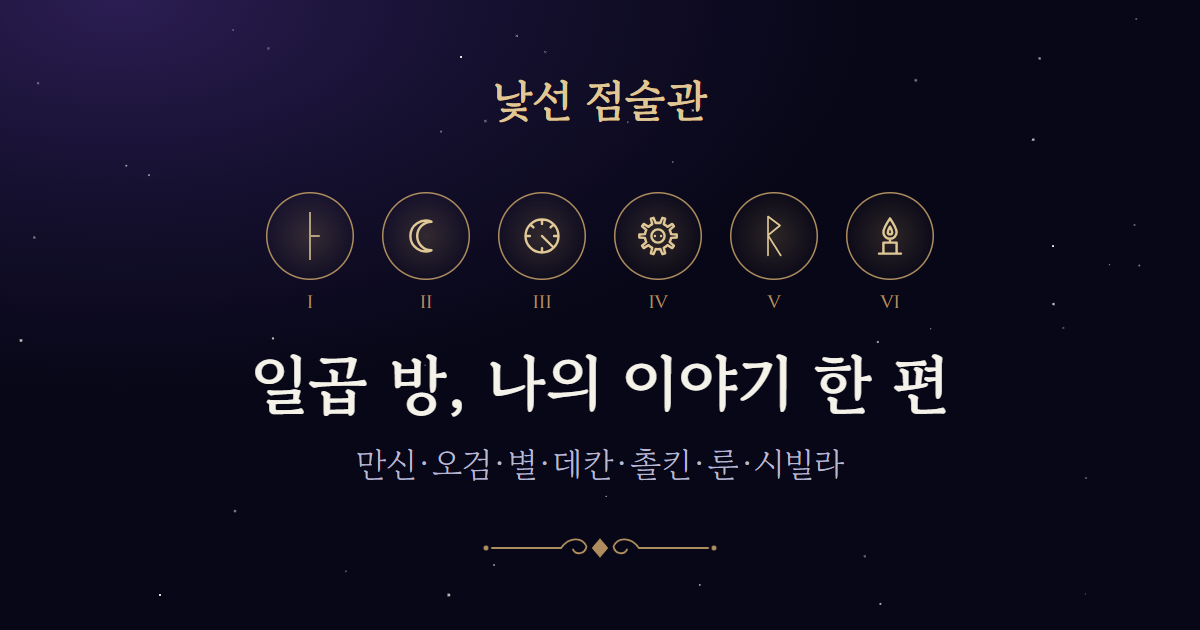
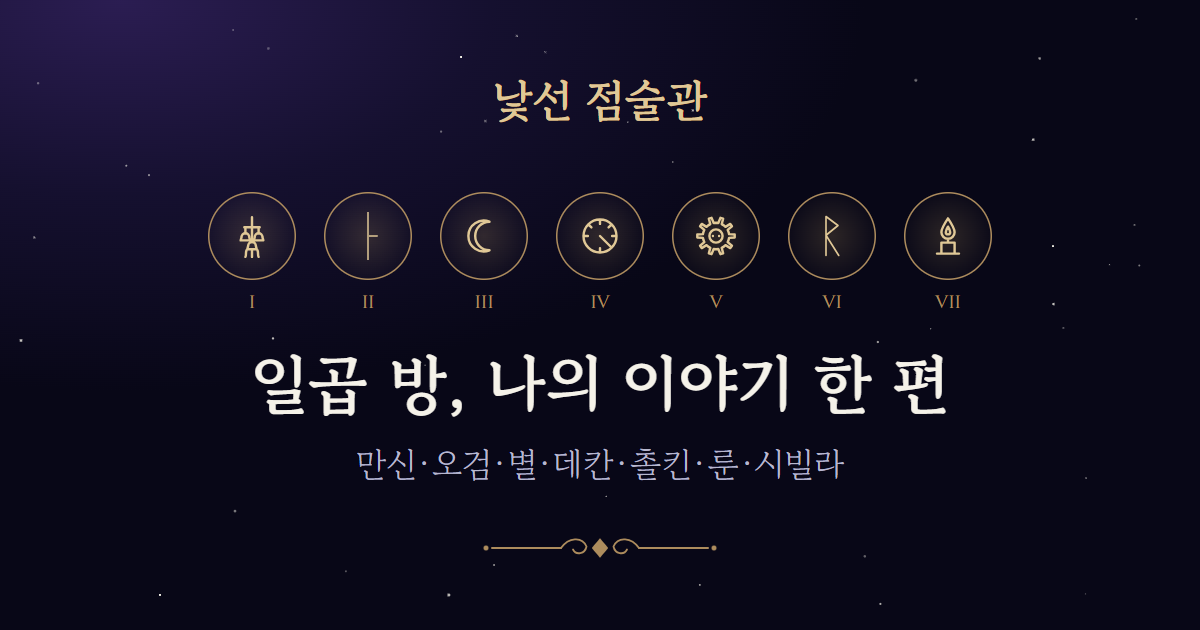
14단계 QA 1차 수정: ads.js를 배포 폴더에서 빼고 build-dist 검사 추가, og-image 일곱 문 상징(Ⅰ 만신)으로 다시 만듦·CREDITS 갱신, 권장 반영(이어가기 칸 SOG2 예시, 지우기 대화상자에 시각·성별, meta 키워드 사주·만신)

Changed region(s): [[0.185, 0.3016, 0.8017, 0.4825]]

diff --git a/tools/build-dist.js b/tools/build-dist.js
@@ -74,7 +74,9 @@ function copyDir(src, dest, exclude = new Set()) {
 }
 
 fs.rmSync(DIST, { recursive: true, force: true });
-copyDir(path.join(ROOT, "common"), path.join(PUBLIC, "common"));
+// (14-2·14-7의 7) 광고는 걷어 냈다: common/ads.js는 저장소에 남기되 배포 폴더에는 넣지 않는다
+const COMMON_EXCLUDE = new Set(["ads.js"]);
+copyDir(path.join(ROOT, "common"), path.join(PUBLIC, "common"), COMMON_EXCLUDE);
 for (const slug of PRODUCTS) copyDir(path.join(ROOT, "products", slug), path.join(PUBLIC, "products", slug), PRODUCT_EXCLUDE);
 // 제품 index.html 복사본: og:image 절대 경로, og:url·canonical 추가 (site.url이 있을 때만)
 for (const slug of PRODUCTS) {
@@ -114,6 +116,7 @@ const publicTexts = [];
       if (/(^|\/)legal\/refund\.html$/.test(rel)) fails.push(`① public/${rel} 있음`);
       if (/(^|\/)data-book-(?!free\.js$)[^/]*\.js$/.test(rel) || /(^|\/)book-[a-z]+\.js$/.test(rel)) fails.push(`① 옛 책 파일·유료 파일 public/${rel}`);
       if (/__dev/.test(rel)) fails.push(`① public/${rel}`);
+      if (/(^|\/)ads\.js$/.test(rel)) fails.push(`① 광고 부품 public/${rel} (14-7의 7)`);
       if (/\.(js|html|css|json|txt|md|svg|xml)$/.test(e.name)) publicTexts.push(fs.readFileSync(p, "utf8"));
     }
   }
@@ -182,4 +185,4 @@ for (const slug of PRODUCTS) {
 if (fails.length) {
   console.error("  실패: 배포 점검 — " + fails.slice(0, 15).join(" | "));
   process.exitCode = 1;
-} else console.log("  배포 점검 통과 (pay.mode off · api/·_paid·__dev·옛 책 파일 없음 · 유료 문장 지문 0건 · 첫 화면 책 파일 0) — 공개 폴더: dist/public, 함수: netlify/functions/book.js");
+} else console.log("  배포 점검 통과 (pay.mode off · api/·_paid·__dev·옛 책 파일·ads.js 없음 · 유료 문장 지문 0건 · 첫 화면 책 파일 0) — 공개 폴더: dist/public, 함수: netlify/functions/book.js");

diff --git a/tools/strange-oracle/make-og.js b/tools/strange-oracle/make-og.js
@@ -37,12 +37,12 @@ const DRAW = `(async () => {
     stars += '<circle cx="' + x.toFixed(1) + '" cy="' + y.toFixed(1) + '" r="' + r.toFixed(2) + '" fill="#f5f2e9" opacity="' + o.toFixed(2) + '"/>';
     n++;
   }
-  // 여섯 문 상징 (Ⅰ 오검 · Ⅱ 별 · Ⅲ 데칸 · Ⅳ 촐킨 · Ⅴ 룬 · Ⅵ 시빌라): 원 88px, 간격 28px, 중심 y 236
-  const SYM = [["ogham-beith", 26, 52], ["icon-star", 44, 44], ["icon-decan", 44, 44], ["icon-tzolkin", 44, 44], ["rune-raidho", 30, 45], ["icon-sibyl", 44, 44]];
-  const ROMAN = ["I", "II", "III", "IV", "V", "VI"];
+  // (14단계) 일곱 문 상징 (Ⅰ 만신 · Ⅱ 오검 · Ⅲ 별 · Ⅳ 데칸 · Ⅴ 촐킨 · Ⅵ 룬 · Ⅶ 시빌라): 원 88px, 간격 28px, 중심 y 236, 가운데 정렬
+  const SYM = [["icon-saju", 44, 44], ["ogham-beith", 26, 52], ["icon-star", 44, 44], ["icon-decan", 44, 44], ["icon-tzolkin", 44, 44], ["rune-raidho", 30, 45], ["icon-sibyl", 44, 44]];
+  const ROMAN = ["I", "II", "III", "IV", "V", "VI", "VII"];
   let doors = "";
   SYM.forEach(([id, w, h], i) => {
-    const cx = 310 + i * 116, cy = 236;
+    const cx = 600 + (i - (SYM.length - 1) / 2) * 116, cy = 236;
     doors += '<circle cx="' + cx + '" cy="' + cy + '" r="43.25" fill="url(#og-glow)" stroke="' + BRONZE + '" stroke-width="1.5"/>'
       + '<use href="#' + id + '" x="' + (cx - w / 2) + '" y="' + (cy - h / 2) + '" width="' + w + '" height="' + h + '" style="color:' + HI + ';fill:none;stroke:' + HI + ';stroke-width:2.2;stroke-linecap:round;stroke-linejoin:round"/>'
       + '<text x="' + cx + '" y="308" text-anchor="middle" font-family="Cinzel, serif" font-weight="500" font-size="18" fill="' + BRONZE + '">' + ROMAN[i] + '</text>';

diff --git a/products/strange-oracle/data.js b/products/strange-oracle/data.js
@@ -138,7 +138,7 @@ window.TEXT = {
   // ── 내 정보 지우기 확인 대화상자
   dialog: {
     title: "내 정보를 지울까요?",   // (최대 16자)
-    text: "이름·생년월일과 지금까지 채운 나의 이야기가 이 탭에서 모두 지워지며, 되돌릴 수 없어요.", // (최대 80자)
+    text: "이름·생년월일·태어난 시각·성별과 지금까지 채운 나의 이야기가 이 탭에서 모두 지워지며, 되돌릴 수 없어요.", // (최대 80자)
     confirm: "모두 지우기",
     cancel: "그대로 두기",
   },
@@ -830,7 +830,7 @@ window.TEXT = {
     enter: {
       link: "이어가기 코드가 있어요",                 // 입구, 마친 방 0개일 때 글자 링크 (최대 16자)
       help: "복사해 둔 코드를 그대로 붙여 넣어 주세요", // (최대 24자)
-      placeholder: "SOG1-XXXX-XXXX-XXX",                     // 코드 모양 예 (최대 20자)
+      placeholder: "SOG2-XXXX-XXXX-XXXX-X",                   // 코드 모양 예 (최대 21자, SOG2 17자 + 하이픈 4)
       go: "불러오기",                                 // (최대 8자)
     },
     errors: { // 각 최대 30자

diff --git a/products/strange-oracle/index.html b/products/strange-oracle/index.html
@@ -3140,7 +3140,7 @@
   <dialog class="dialog" data-js="clear-dialog" aria-labelledby="clear-title">
     <div class="dialog__body">
       <h2 class="dialog__title" id="clear-title" data-t="dialog.title">내 정보를 지울까요?</h2>
-      <p class="dialog__text" data-t="dialog.text">이름·생년월일과 지금까지 채운 나의 이야기가 이 탭에서 모두 지워지며, 되돌릴 수 없어요.</p>
+      <p class="dialog__text" data-t="dialog.text">이름·생년월일·태어난 시각·성별과 지금까지 채운 나의 이야기가 이 탭에서 모두 지워지며, 되돌릴 수 없어요.</p>
       <div class="dialog__actions">
         <button class="btn btn--danger btn--block" type="button" data-js="clear-confirm" data-t="dialog.confirm">모두 지우기</button>
         <button class="btn btn--ghost btn--block" type="button" data-js="clear-cancel" data-t="dialog.cancel">그대로 두기</button>

diff --git a/tools/strange-oracle/sync-text.js b/tools/strange-oracle/sync-text.js
@@ -13,7 +13,7 @@ const M=T.meta||{},O=T.og||{};let meta=0;
 const setAttr=(re,val)=>{if(val==null)return;h=h.replace(re,(m,a,b)=>{meta++;return a+escA(val)+b;});};
 h=h.replace(/<title>[^<]*<\/title>/,()=>{meta++;return `<title>${esc(M.title)}</title>`;});
 setAttr(/(<meta name="description" content=")[^"]*(")/,M.description);
-setAttr(/(<meta property="og:title" content=")[^"]*(")/,O.title||M.title);
+setAttr(/(<meta property="og:title" content=")[^"]*(")/,M.title);
 setAttr(/(<meta property="og:description" content=")[^"]*(")/,O.description||M.description);
 console.log({changed:n,meta,missingKeys:[...new Set(miss)].slice(0,20)});
 fs.writeFileSync(file,h);

diff --git a/reports/qa-strange-oracle.md b/reports/qa-strange-oracle.md
@@ -814,3 +814,167 @@
 
 ### meta.json
 - status "검수통과" 유지(바꾸지 않음).
+
+## 14단계 QA (F7 1차, 2026-10-16)
+
+### 판정: 수정 필요
+- 배포를 막는 항목은 2건이고 둘 다 작다.
+  1. 배포 폴더에 `common/ads.js`가 들어간다(14-7의 7).
+  2. og-image가 옛 순서·여섯 상징 그대로다(14-7의 1 취지, 11장 og-image).
+- 성능(14-7의 12)은 기획서 기준에 못 미치지만 **배포를 막는 결함으로 보지 않는다**(아래 근거). 대신 운영자가 기준 미달을 받아들일지 정해야 한다.
+- 6장·7장·8장은 통과다. 11장은 og-image 내용만 빼고 통과다.
+- meta.json status는 이전 단계 값 "검수통과"를 그대로 두었다. 이번 판정이 "수정 필요"라서 11장 배포 기준은 아직 충족되지 않는다. 판정이 "배포 가능"이 되기 전에는 `release` 병합을 하지 않는다.
+
+### 직접 돌린 시험
+2026-10-16, build-dist를 다시 실행하고 모의 서버 8788(`--mode test`)을 재시작한 뒤 돌렸다.
+
+| 시험 | 결과 |
+|---|---|
+| `node tools/build-dist.js` | exit 0. [초안] 없음. 유료 지문 4,637개(saju 170 포함)를 dist/public 28개 파일에서 찾아 0건(공개 문구와 글자 그대로 같은 9개는 뺌). pay.mode off, api·_paid·__dev 없음 |
+| 단위 `node --test "tools/strange-oracle/*.test.js"` | 63 통과 / 0 실패 |
+| e2e-saju | 41 통과 / 0 실패 |
+| e2e-book | 54 통과 / 0 실패 |
+| e2e-pay (test + off 배포판) | 29 통과 / 0 실패 |
+| e2e-flow reduced | 127 통과 / 0 실패 (책 문장 6,066개 대조) |
+| e2e-flow motion | 128 통과 / 0 실패 |
+| perf.js | 돌리지 않았다. 몇 분 걸리고 회마다 2.4~5.6초로 흔들린다. tests.md 「14단계 · 성능」(2026-10-16) 수치로 판단했다 |
+
+### 결과표 (14-7 수용 기준 1~16, CLAUDE.md 6·7·8·11장)
+| 번호 | 결과 | 근거 | 수정 방법 |
+|---|---|---|---|
+| 14-7의 1 순서·문구 | 통과(화면) | e2e-saju: Ⅰ만 is-next이고, Ⅰ 전에는 Ⅱ에 못 들어간다. dist index.html의 주석 밖 "여섯"은 `guides.saju.greet` "세상의 여섯 문을 더 지날 터이니" 하나뿐이다. 만신 뒤에 방이 여섯이라 맞다 | og-image는 수정 필요 2 |
+| 2 첫 입력 네 칸·고지 | 통과 | e2e-saju: 시작 버튼 아래 끝 624px(360×640 안), 고지가 버튼 위, 내 정보 지우기 뒤 gender 없음 | |
+| 3 만세력 검증 | 통과 | 단위 saju.test.js(일진·절입·경계·시주·대운) 통과. 아래 표본 3명이 손 계산과 일치 | |
+| 4 경우별 표시 | 통과 | e2e-saju: 시각 모름 6글자·합 6, 입춘일 안내, 밝히지 않음은 대운 없음+링크, 00:15 → 전날 일주(丁卯) | |
+| 5 조합 전부 | 통과 | 단위 "S1~S5 분포" 통과, 같은 입력이면 같은 글 | |
+| 6 이어가기 SOG2/SOG1 | 통과 | e2e-saju: legacy·SOG1 복원 뒤 다음 방 Ⅰ, 옛 상태 SOG2 왕복, 순서 어긋난 코드 거부, 해독 칸에 성별·대운 없음 | |
+| 7 광고 흔적 | **수정 필요** | 첫 화면 소스·요청은 0건(e2e-saju). 그러나 **`dist/public/common/ads.js`가 배포 폴더에 있다**(adsbygoogle·googletag 문자열 포함). 기준은 "배포 폴더와 첫 화면 소스에 … ads.js … 0건, common/ads.js 파일은 저장소에 그대로"다 | 수정 필요 1 |
+| 8 결제 | 통과 | e2e-pay 29건: 결제 전 1~8 순서, test 띠, 빈 구매처면 버튼 비활성+한 줄, SDK 0, SO1·SOG·모양 틀림은 요청 0, 7/7 전 구매는 need-room, off는 DOM 0·막다른 곳 0·/api 요청 0 | F6 해석은 아래 |
+| 8 함수 허용 목록 | 통과(코드 검토) | `netlify/functions/book.js`, 아래 검토 | |
+| 9 유료 누출 0 | 통과 | build-dist 지문 검사 + 직접 표본(아래) | |
+| 10 시험 페이지 12장 | 통과 | e2e-pay: rooms=7&paid=1로 12장 첫 쪽·끝 쪽, legacy 시나리오 | |
+| 11 e2e 갱신 | 통과 | 위 수치가 HANDOFF 4장 값과 같다 | |
+| 12 성능 14-6 1~4 | **미달(배포는 막지 않음, 운영자 승인 필요)** | 아래 성능 판단 | |
+| 13 입력값 전수 | 통과 | e2e-pay "함수 요청 본문은 pass·file 두 칸뿐"(13건). app.js:2794가 `body: JSON.stringify({ pass, file })`만 보낸다. 분석 이벤트는 단계·방·원형 코드만 담는다(app.js:4231~4266) | |
+| 14 성별 차이 | 통과(보완 권장) | e2e-saju 14번 5건 통과. 시험 코드(e2e-saju.js:162~186)를 직접 읽었다: 남·여·밝히지 않음으로 세 번 돌려 결과 공유 카드 픽셀·SOG2 코드(SOG20000000000GMW)·요청·dataLayer·storage를 비교한다 | 권장 1 |
+| 15 카드 원국 8글자 없음 | 통과(F6 기록) | design/strange-oracle.md F6 기록. 이번에 다시 보지는 않았다 | |
+| 16 내용 | 통과 | 아래 8장 통독 | |
+| 6장 SOG 경고 | 통과 | data.js:825 `resume.make.warn` "이름과 생일이 글자 그대로 들어 있지는 않아요. 하지만 이 코드를 아는 사람은 내 결과와 태어난 날을 알아낼 수 있어요…". SOG2에도 성별·대운이 없으니 사실과 맞다. 복원 안내는 data-saju.js:176~177 | 권장 2·3 |
+| 7장 결제 전 고지 | 통과 | data.js:45~58 순서: 받는 것(10장·분량·합계) → 3,900원 → 포스타입(가입·로그인 필요) → 열람 코드 → 환불(구매처 정책, 시험 전용 문장) → 동의 → 구매 → 코드 | |
+| 11장 | og-image만 수정 필요 | [초안] 0(index·dist). og-image 1200×630, 148KB. 소개 글은 off 배포판 FAQ 4문답 약 490자. 면책은 common/disclaimer.js, 결과 5곳에 붙는다. CREDITS.md에 lunar-javascript 1.7.7(MIT)·IANA tz 2026c가 있다 | 수정 필요 2 |
+
+### 수정 필요 항목 상세
+1. **배포 폴더의 `common/ads.js` (담당 developer)**
+   - 재현: `node tools/build-dist.js`를 실행하고 `ls dist/public/common`을 보면 `ads.js`가 있다. `grep -rl adsbygoogle dist/public`도 `dist/public/common/ads.js`를 찾는다.
+   - 어디서도 불러오지 않아 사용자 피해는 없다. 그러나 14-7의 7 기준 문장과 어긋나고, build-dist 점검이 이것을 잡지 못한다.
+   - 고칠 것:
+     - build-dist는 common/에서 이 제품이 쓰는 부품만 복사한다(ads.js 제외).
+     - 점검에 "dist/public에 ads.js·adsbygoogle 0건"을 더한다.
+     - 저장소의 `common/ads.js`는 지우지 않는다(14-2).
+2. **og-image가 옛 순서·여섯 상징 (담당 developer, 상징은 designer 확인)**
+   - 재현: `products/strange-oracle/og-image.png`를 연다.
+     - 큰 글씨는 "일곱 방, 나의 이야기 한 편"이고 아래 줄은 "만신·오검·…·시빌라"다.
+     - 그런데 상징은 **6개**이고 Ⅰ이 오검(ᚁ), Ⅵ이 시빌라다. 만신 대문 상징이 없고 번호도 옛 순서다.
+   - 원인: `tools/strange-oracle/make-og.js:41~42`의 `SYM`·`ROMAN`이 여섯 개로 고정돼 있다.
+   - 링크 미리보기는 공유받은 사람이 가장 먼저 보는 화면이라 14-7의 1(옛 순서 0건) 취지에 걸린다.
+   - 고칠 것:
+     - Ⅰ 만신 대문 상징을 맨 앞에 더해 Ⅰ~Ⅶ 일곱 개로 다시 만든다.
+     - CREDITS.md 14행("2026-09-30 … 여섯 문 상징")도 사실대로 고친다.
+
+### 함수·netlify.toml 코드 검토
+- `netlify/functions/book.js`
+  - **허용 목록:** `ALLOW.includes(b.file)`로 10개와 정확히 같은 값만 받는다. 파일 경로는 허용된 값으로만 `book-${file}.js`를 만든다. `../x`·`book-ogham`은 400 `file`로 거부하고 파일을 읽지 않는다. 본문은 512자 이하여야 하고, 키가 `file`·`pass` 정확히 두 개가 아니면 400이다.
+  - **오입력 제한:** IP별 10분 창에서 실패 10회째부터 429를 준다. 메모리 Map만 쓰고 저장하지 않는다. 모양 틀림과 해시 불일치를 모두 센다. IP 헤더가 없으면 모든 요청이 "unknown" 한 칸을 나눠 쓴다. Netlify는 `x-nf-client-connection-ip`를 주므로 실제로는 해당 없다고 보지만 미확인이다.
+  - **no-store:** 모든 응답(405·503·429·400·401·200·500)에 `Cache-Control: no-store`가 붙는다.
+  - **PASS_MODE:** "live"·"test"가 아니면 무조건 503이다. 그래서 1차 배포판은 함수가 있어도 아무것도 주지 않는다.
+  - 그 밖: 해시 비교는 `timingSafeEqual`이고, 요청 본문·코드를 console에 찍지 않는다.
+- `netlify.toml`
+  - `publish = "dist/public"`, `command = "node tools/build-dist.js"`(점검이 실패하면 exit 1 → 배포 중단).
+  - `[functions] directory = "netlify/functions"`, `included_files = ["products/strange-oracle/api/_paid/book/**"]`(함수 묶음에만 들어감).
+  - `/api/book`은 함수로 200 rewrite된다.
+  - 문제 없다. 다만 함수 묶음 안의 실제 파일 경로는 `paidDir()`가 후보 셋을 차례로 찾는 방식이다. live 전에 실제 배포에서 한 번 확인해야 한다(미확인, live 때 할 일).
+
+### 유료 문장 누출 직접 표본
+- 유료 원본 문자열 5,974개 가운데 7개마다 하나씩(844개) 골라 가운데 16자를 찾았다. 찾은 곳은 dist/public 텍스트 전체와 제품 폴더의 공개 파일이다. 9곳이 겹쳤다.
+- 겹친 9곳을 하나씩 확인했다.
+  - book-rune의 51자 한 문장은 data-runes.js의 무료 떡밥 문장과 통째로 같다. build-dist가 일부러 빼는 "공개와 같은 문자열"이다.
+  - book-saju 2곳은 "그건 자네가 ~해서가 아니라, ~가 그만큼 ~해서 그런 것이여" 틀의 문장이 무료 S1과 40·41자 겹친다(유료 문단은 62·65자).
+  - 나머지는 13~16자짜리 흔한 구절이다.
+- 판단: 유료 문단이 통째로 새는 곳은 없다. 통과.
+
+### 8장 콘텐츠 통독 (14-7의 16)
+- **읽은 표본**
+  - 무료 S1·S5·요약: **갑목·정화·경금·계수 4편 전문**
+  - S2(물 적음, 빈 오행 나무·불), S3(비겁·식상), S4(순행·역행) 전문
+  - 유료 Ⅰ 장: **무토 장 전문**(identity·event·shadow·advice), **숨은 장 식상·관성 2편 전문**, 열 일간 장의 shadow·advice 마지막 문단 전부
+- **금지어 검색:** 14-1 목록 35개에 죽·질병·병원·건강·로또·주식·100%·적중을 더해 찾았다. data-saju.js와 book-saju.js에서 0건이다. data.js·index.html에서는 주석 속 "반드시" 2건뿐이다(화면에 안 보임).
+- **균형:** 열 일간이 모두 같은 틀이다.
+  - 순서: 글자 소개 → 힘 셋 → 일 → 배움 → 기운이 살아나는 때 → 사람 → 마음 가는 사람 → 그늘진 쪽 → "그건 자네가 ~해서가 아니라" → 실행 조언
+  - 분량이 고르다: 본문 1,819~1,985자, 공수 191~237자, 유료 장 3,039~3,362자, 숨은 장 785~826자.
+  - 특정 일간만 좋거나 나쁜 표현은 없다.
+- **성별 고정관념:** 없다. 연애 문단은 "마음이 가는 사람"으로 쓰고, 관성은 "규칙·책임·울타리"로 쓴다. 남편성·처성 해석이 없다.
+- **결말:** 읽은 S1·S5·장·숨은 장이 모두 "오늘은 ~ 적어 두게"처럼 실행 가능한 긍정 조언으로 끝난다.
+  - 빈 오행은 "채워 갈 쪽"으로 쓴다.
+  - 대운은 "10년마다 바뀌는 계절", "무엇이 정해져 있는 건 아니네"로 단정하지 않는다.
+- **예언 여부:** 유료 event 문단은 "~였을 것이여"처럼 지난 일을 짐작하는 말투다. 예언이 아니다. 건강·죽음·사고·액운·부적·굿은 없다.
+- **읽지 않은 것:** 을·병·무·기·신·임의 무료 본문 전문, 유료 장 나머지 9편의 identity·event 전문, 숨은 장 3편. 이것들은 금지어 검색과 분량·구조 비교로만 보았다.
+
+### 사주 계산 표본 3명
+제품 saju.js에 vendor lunar.js를 붙여 계산하고 손 계산과 대조했다.
+
+| 입력 | 제품 결과 | 손 계산 | 화면 설명 |
+|---|---|---|---|
+| 1995-03-25 14:37 남 | 乙亥 己卯 乙卯 癸未, 목4·화0·토2·금0·수2, 비겁 3, 역행 6세 | 일주: 2000-01-01 戊午에서 1,743일 전 → 乙卯. 乙년 卯월 → 己卯. 지방시 약 14:05 → 未시, 乙일 → 癸未. 음년+남 → 역행. 경칩부터 19.2일 ÷ 3 = 6 | e2e-saju 화면 제목 "바람에 휘는 덩굴"(을목), 원국 8글자 같음. S2 많음=목, 빈=화 |
+| 1990-01-01 12:00 여 | 己巳 丙子 丙寅 甲午, 화4, 순행 1세 | 입춘 전이라 己巳년. 대설 뒤 子월 → 丙子. 3,652일 전 → 丙寅. 지방시 11:28 → 午시, 丙일 → 甲午. 음년+여 → 순행. 소한까지 4.5일 → 1 | 병화, S2 많음=화·빈=금 |
+| 2000-05-10 00:15 남 | 庚辰 辛巳 丁卯 壬子, 순행 9세 | 한국 시계 00:15 = 지방시 전날 23:43이라 일주는 5/9 丁卯(129일 뒤). 子시 천간은 다음 날 戊 기준 → 壬子(기획서 14-1 처리 순서 5와 같음). 입하 뒤 巳월 → 辛巳. 양년+남 → 순행. 망종까지 26.7일 → 9 | 정화. 많음이 화·금·수 2로 동률이고, 동률 규칙대로 월지 巳=화를 고름 |
+
+- 덤: 1987-07-15 시각 모름·밝히지 않음 → 丁卯 丁未 乙丑, 시주 없음, 대운 null, timeKnown false. 일주 乙丑이 손 계산과 같다.
+
+### F6에서 넘어온 해석: 결제 전 1~8 항목이 360×640 한 화면에 다 안 들어옴
+- **기획서 문구**
+  - 14-7의 8: "결제 전 화면의 1~8 항목이 **버튼보다 위에** 보인다(360×640)"
+  - 14-4: "위에서부터 이 순서로 둔다"
+- **해석:** 같은 14-7에서 한 화면을 요구할 때는 "360×640 **한 화면에** 들어온다"(14-7의 2)라고 따로 적었다. 8에는 그 말이 없다. 또 7·8번 항목은 그 자체가 버튼이다. 그래서 뜻은 "고지 1~6이 버튼 7·8보다 앞(위)에 있고, 360×640에서 가려지거나 넘치지 않는다"로 읽는다.
+- **확인**
+  - `.pay-act`는 sticky·fixed가 아닌 보통 흐름이다(style.css:4712).
+  - 동의 체크와 구매 버튼은 환불 문단 뒤에 있다(index.html 결제 화면 순서). 그래서 버튼에 닿으려면 고지를 지나 내려가야 한다.
+  - CLAUDE.md 7장 "결제 전에 화면에 분명히 보여준다"도 충족한다.
+- **판정:** "버튼보다 앞"으로 해석하고 통과다. 한 화면에 다 넣을 필요는 없다.
+
+### 성능 판단 (14-6, tests.md 「14단계 · 성능」 2026-10-16)
+- **수치**
+  - 첫 화면 ①+② 중앙값 4.88초·4.77초로 기준 3.0초에 미달이다. 같은 코드에서도 2.4~5.6초로 흔들린다. ①(보이고 누를 수 있음)만 보면 3.33초다.
+  - 방 전환: 미리 받음 273·338ms(경계), 처음 받음 714ms(통과).
+  - 쪽 넘김: 6ms·434ms(통과).
+  - 의식 연출 긴 작업은 **미측정**이다. 전송량은 13단계 값이 없어 **비교하지 못했다**.
+- **배포를 막는 결함으로 보지 않는다.** 근거:
+  1. CLAUDE.md 3장은 "첫 화면 로딩 3초 이내 **목표**"라고 적었다. 11장 배포 가능 기준과 qa-reviewer 필수 항목(P1~P9)에는 성능이 없다.
+  2. 개인정보·법·결제와 상관없는 문제다. 기능은 e2e 6종이 모두 통과한다.
+  3. 측정 조건(1.6Mbps·150ms·CPU 4배·캐시 비움)이 엄하고, ①은 3.3초로 기준에 가깝다. 남은 원인(첫 배치 약 0.95초)은 아직 원인을 모른다. 고치는 데 얼마나 걸릴지 가늠하기 어렵다. CLAUDE.md 1장 4(완벽보다 출시)에 비추면 1차 출시를 막을 만한 문제는 아니다.
+- 다만 14-7의 12는 기획서 합격 기준이다. 그래서 **운영자가 "1차는 미달인 채 출시"를 승인**해야 한다. 승인하지 않으면 developer가 첫 배치와 글꼴 도착 뒤 다시 배치를 더 줄이고, 의식 연출 긴 작업도 재야 한다.
+
+### 권장 사항 (배포를 막지 않음)
+1. (developer) e2e-saju 14번 성별 차이 시험에 기획서가 적은 "시험 페이지의 열람 확인 1회"가 빠져 있다.
+   - 이번에는 e2e-pay(본문이 pass·file뿐)와 app.js:2794 코드로 대신 확인했다.
+   - 세 번 실행 안에 열람 확인 1회를 넣으면 기준 문장과 같아진다.
+   - GA4 ID가 비어 있어 dataLayer 비교가 빈 값끼리의 비교일 수 있다(미확인).
+2. (copywriter) 이어가기 입력 칸 예시 `resume.enter.placeholder`가 "SOG1-XXXX-XXXX-XXX"다(data.js:833). 지금 만드는 코드는 늘 SOG2이고 한 글자 더 길다(예: 16자). 예시를 SOG2 모양으로 바꾼다.
+3. (copywriter) 내 정보 지우기 대화상자 `dialog.text`(data.js:141) "이름·생년월일과 …"에 태어난 시각·성별이 빠져 있다. 실제로는 함께 지워진다(e2e-saju). 문구만 맞추면 된다.
+4. (planner/designer) meta.json keywords에 사주·만신이 없다.
+
+### 확인하지 못한 것과 이유
+- 14-6의 4 의식 연출 긴 작업: tests.md에 미측정으로 남아 있고, 이번에도 재지 않았다.
+- 14-7의 15 카드 원국 영역: F6 기록에 기댔다. 직접 보지 않았다.
+- Netlify 함수 묶음 안 유료 파일의 실제 경로와 배포처 압축 방식: 실제 배포 전이라 미확인이다.
+- 무료 일간 본문 6편과 유료 장 9편 전문은 통독하지 않았다(표본은 위에 밝힘).
+
+### 운영자가 확인·결정할 것
+- 성능 미달(14-7의 12)을 1차 출시에서 받아들일지.
+- 배포 전에 운영자가 채울 것(HANDOFF 3장):
+  - legal/privacy.html·terms.html의 ◯◯ 빈칸(문의 이메일·보호책임자·GA4 보관 기간 등)
+  - data.js `site.url`
+  - 개인정보처리방침의 보호책임자 칸은 법정 기재 사항이라 빈칸인 채로 공개하지 않는다.
+- 저장소가 비공개인지 확인한다(유료 원본이 저장소에 있음, 62번).
+
+### meta.json
+- status "검수통과"를 그대로 두었다(바꾸지 않음). 판정이 "수정 필요"이므로 위 2건을 고친 뒤 재검수(2차)에서 "배포 가능"이 나와야 11장 기준이 충족된다.

diff --git a/products/strange-oracle/CREDITS.md b/products/strange-oracle/CREDITS.md
@@ -11,7 +11,7 @@ Google Fonts는 쓰지 않는다 (2026-09-25 교체). 라이선스는 각 패키
 
 ## 이미지
 - 별하늘 배경, 룬 주머니, 룬 돌, 별 바퀴: CSS·SVG·Canvas로 코드에서 직접 그림. 외부 이미지 없음.
-- og-image.png(1200x630): 2026-09-30 다시 만듦. tools/strange-oracle/make-og.js가 index.html의 여섯 문 상징·장식선 SVG(designer 직접 제작)와 제품 글꼴(Gowun Batang·Cinzel)로 그려 헤드리스 Edge로 찍는다. AI·외부 이미지 없음.
+- og-image.png(1200x630): 2026-10-16 다시 만듦(14단계, 일곱 방). tools/strange-oracle/make-og.js가 index.html의 일곱 문 상징·장식선 SVG(designer 직접 제작)와 제품 글꼴(Gowun Batang·Cinzel)로 그려 헤드리스 Edge로 찍는다. AI·외부 이미지 없음.
 - 룬 글자와 ☾ 기호: 유니코드 문자. 룬 획(SVG)·별 바퀴·원형 문장: designer가 코드로 직접 그림.
 - 공유 카드(1080x1920)의 돌·아치·초승달: common/share-card.js와 app.js가 canvas로 직접 그림.
 - (9단계) 방의 안내자 실루엣 SVG 6개(오검 필경사의 손·별 점성가의 손가락·데칸 해시계 관리인의 손·촐킨 석판·룬 예언자의 망토와 손·시빌라 옆모습과 손): designer가 index.html 안에 코드로 직접 그림. 외부 이미지·참고 그림 없음.

diff --git a/tools/strange-oracle/PROGRESS-14-qa.md b/tools/strange-oracle/PROGRESS-14-qa.md
@@ -1,0 +1,17 @@
+# 14단계 F7 QA 진행표 (qa-reviewer, 2026-10-16)
+도구 호출 예산 70. 끊기면 아래 미완 항목부터 이어서.
+
+| # | 항목 | 상태 | 메모 |
+|---|---|---|---|
+| 1 | 기준 문서 읽기(CLAUDE·qa-reviewer·HANDOFF·14-1~14-9) | 완료 | |
+| 2 | 단위·e2e 4종 실행 | 진행 | |
+| 3 | build-dist + 유료 누출 표본 grep | 완료 | |
+| 4 | 함수 book.js·netlify.toml 검토 | 완료 | |
+| 5 | 6장 개인정보(성별 3회, SOG 문구) | 완료 | |
+| 6 | 7장 결제 전 고지 순서·F6 해석 | 완료 | |
+| 7 | 8장 통독(S1~S5, Ⅰ 장) + 금지어 | 완료 | |
+| 8 | 사주 표본 3명 | 완료 | |
+| 9 | 11장 항목 | 완료 | |
+| 10 | 성능 판단 | 완료 | |
+| 11 | 보고서 작성 | 완료 | |
+- 판정: 수정 필요 (dist/public/common/ads.js, og-image 옛 순서). 보고서 reports/qa-strange-oracle.md 「14단계 QA」에 기록 완료.
